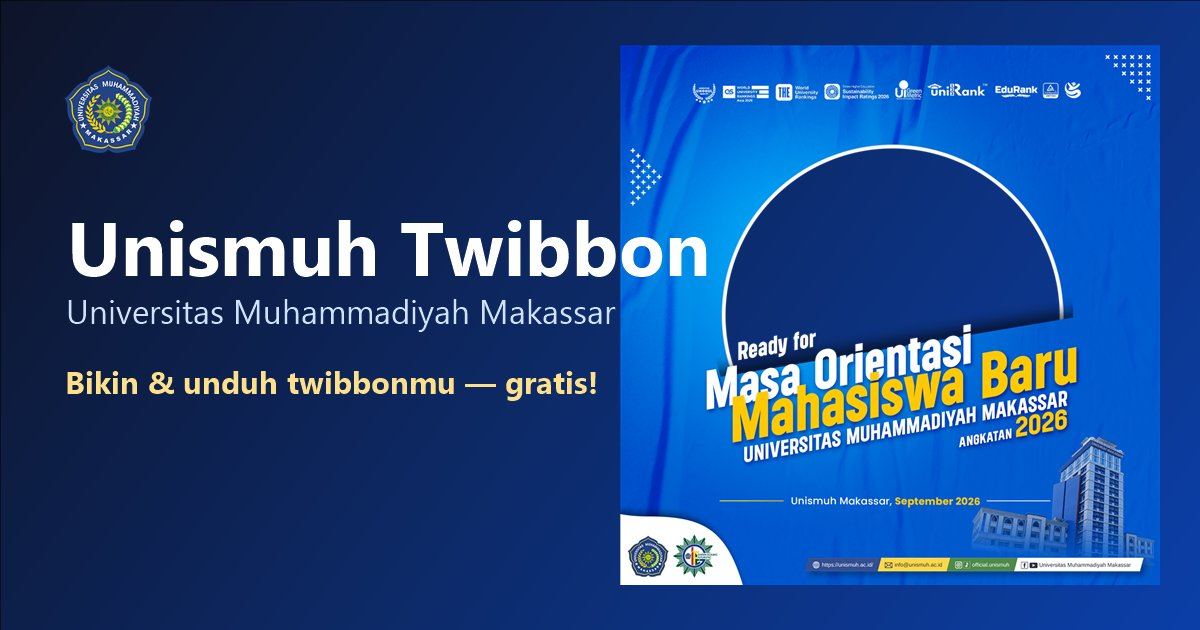
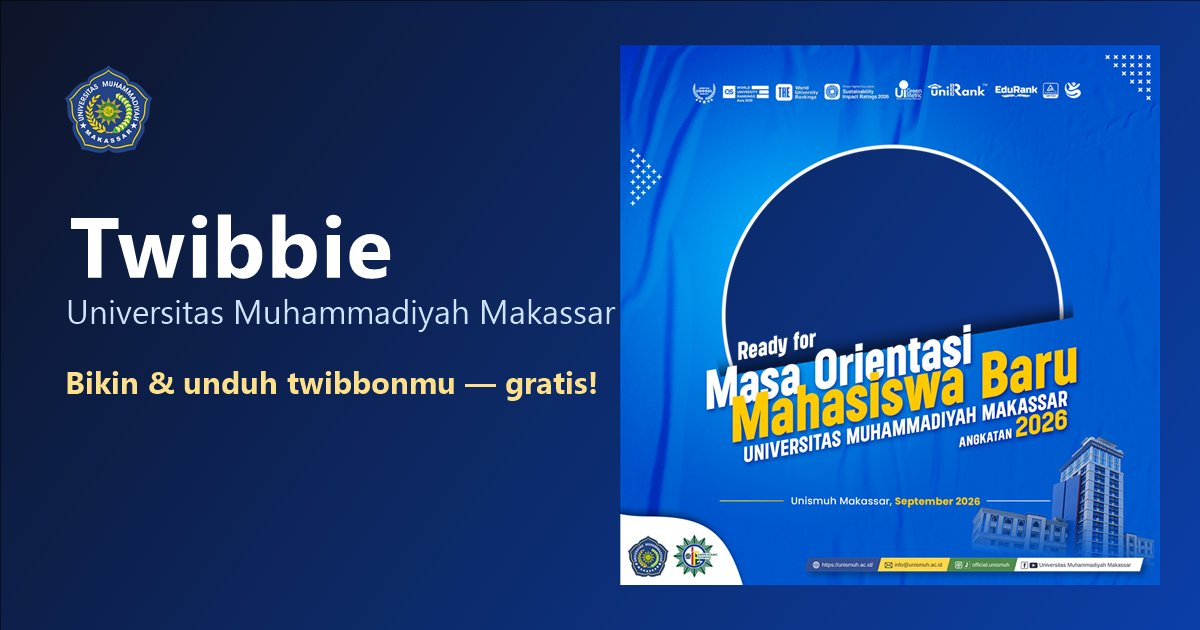
Ganti nama aplikasi menjadi Twibbie (judul, header, meta share, og-image)

Changed region(s): [[0.0617, 0.3317, 0.6167, 0.4524]]

diff --git a/index.html b/index.html
@@ -4,7 +4,7 @@
   <meta charset="UTF-8" />
   <meta name="viewport" content="width=device-width, initial-scale=1.0, maximum-scale=1.0, user-scalable=no" />
   <meta name="theme-color" content="#0b3fa8" />
-  <title>Unismuh Twibbon — Universitas Muhammadiyah Makassar</title>
+  <title>Twibbie — Universitas Muhammadiyah Makassar</title>
   <meta name="description" content="Bikin twibbon Universitas Muhammadiyah Makassar langsung dari HP — gratis, tanpa aplikasi. Unggah foto, sesuaikan, lalu unduh." />
   <link rel="icon" type="image/png" sizes="32x32" href="favicon-32.png" />
   <link rel="icon" type="image/png" sizes="192x192" href="favicon-192.png" />
@@ -12,8 +12,8 @@
 
   <!-- Open Graph (WhatsApp, Facebook, dll) -->
   <meta property="og:type" content="website" />
-  <meta property="og:site_name" content="Unismuh Twibbon" />
-  <meta property="og:title" content="Unismuh Twibbon — Universitas Muhammadiyah Makassar" />
+  <meta property="og:site_name" content="Twibbie" />
+  <meta property="og:title" content="Twibbie — Universitas Muhammadiyah Makassar" />
   <meta property="og:description" content="Bikin & unduh twibbonmu — gratis, langsung di HP. Unggah foto, sesuaikan, lalu unduh." />
   <meta property="og:url" content="https://unismuh.online/" />
   <meta property="og:image" content="https://unismuh.online/og-image.jpg" />
@@ -21,12 +21,12 @@
   <meta property="og:image:type" content="image/jpeg" />
   <meta property="og:image:width" content="1200" />
   <meta property="og:image:height" content="630" />
-  <meta property="og:image:alt" content="Unismuh Twibbon — Universitas Muhammadiyah Makassar" />
+  <meta property="og:image:alt" content="Twibbie — Universitas Muhammadiyah Makassar" />
   <meta property="og:locale" content="id_ID" />
 
   <!-- Twitter Card -->
   <meta name="twitter:card" content="summary_large_image" />
-  <meta name="twitter:title" content="Unismuh Twibbon — Universitas Muhammadiyah Makassar" />
+  <meta name="twitter:title" content="Twibbie — Universitas Muhammadiyah Makassar" />
   <meta name="twitter:description" content="Bikin & unduh twibbonmu — gratis, langsung di HP." />
   <meta name="twitter:image" content="https://unismuh.online/og-image.jpg" />
 
@@ -37,7 +37,7 @@
     <div class="brand">
       <img class="logo-img" src="logo-unismuh.png" alt="Logo Universitas Muhammadiyah Makassar" />
       <div>
-        <h1>Unismuh Twibbon</h1>
+        <h1>Twibbie</h1>
         <p>Universitas Muhammadiyah Makassar</p>
       </div>
     </div>

diff --git a/admin.html b/admin.html
@@ -4,7 +4,7 @@
   <meta charset="UTF-8" />
   <meta name="viewport" content="width=device-width, initial-scale=1.0" />
   <meta name="theme-color" content="#0b3fa8" />
-  <title>Unismuh Twibbon — Admin Frame</title>
+  <title>Twibbie — Admin Frame</title>
   <link rel="icon" type="image/png" sizes="32x32" href="favicon-32.png" />
   <link rel="apple-touch-icon" href="apple-touch-icon.png" />
   <link rel="stylesheet" href="style.css" />
@@ -15,7 +15,7 @@
     <div class="brand">
       <img class="logo-img" src="logo-unismuh.png" alt="Logo Universitas Muhammadiyah Makassar" />
       <div>
-        <h1>Unismuh Twibbon — Admin</h1>
+        <h1>Twibbie — Admin</h1>
         <p>Universitas Muhammadiyah Makassar</p>
       </div>
     </div>

diff --git a/server.js b/server.js
@@ -223,7 +223,7 @@ const server = http.createServer((req, res) => {
 
 server.listen(PORT, () => {
   ensureSeed();
-  console.log(`Twibbon Studio berjalan di http://localhost:${PORT}`);
+  console.log(`Twibbie berjalan di http://localhost:${PORT}`);
   console.log(`Panel admin: http://localhost:${PORT}/admin.html`);
   if (ADMIN_PASSWORD === "admin123") {
     console.log('PERINGATAN: password admin masih default "admin123". Set ADMIN_PASSWORD untuk keamanan.');
